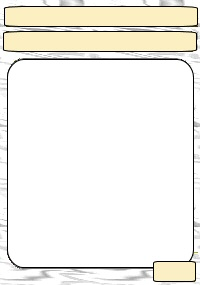
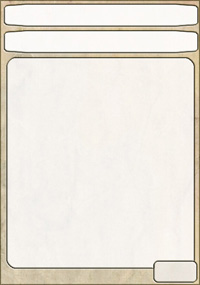
Jeck - Alternate card rendering for land and artifacts, minor graphical tweaking.
git-svn-id: https://wagic.googlecode.com/svn/trunk@798 01922e74-a4c3-11dd-a5cd-697bfd0a0cef

diff --git a/projects/mtg/src/CardGui.cpp b/projects/mtg/src/CardGui.cpp
@@ -111,11 +111,13 @@ JQuad * CardGui::alternateThumbQuad(MTGCard * card){
   JQuad * q;
   switch(card->getColor())
     {
+    case Constants::MTG_COLOR_ARTIFACT  : q = resources.RetrieveQuad("artifact_thumb.jpg");break;
     case Constants::MTG_COLOR_GREEN: q = resources.RetrieveQuad("green_thumb.jpg");break;
     case Constants::MTG_COLOR_BLUE : q = resources.RetrieveQuad("blue_thumb.jpg");break;
     case Constants::MTG_COLOR_RED  : q = resources.RetrieveQuad("red_thumb.jpg");break;
     case Constants::MTG_COLOR_BLACK: q = resources.RetrieveQuad("black_thumb.jpg");break;
     case Constants::MTG_COLOR_WHITE: q = resources.RetrieveQuad("white_thumb.jpg");break;
+    case Constants::MTG_COLOR_LAND  : q = resources.RetrieveQuad("land_thumb.jpg");break;
     default: q = resources.RetrieveQuad("black_thumb.jpg");break;
     }
   if(q && q->mTex)
@@ -129,11 +131,13 @@ void CardGui::alternateRender(MTGCard * card, const Pos& pos){
   JQuad * q;
   switch(card->getColor())
     {
-  case Constants::MTG_COLOR_GREEN: q = resources.RetrieveQuad("green.jpg");break;
+    case Constants::MTG_COLOR_ARTIFACT: q = resources.RetrieveQuad("artifact.jpg");break;
+    case Constants::MTG_COLOR_GREEN: q = resources.RetrieveQuad("green.jpg");break;
     case Constants::MTG_COLOR_BLUE : q = resources.RetrieveQuad("blue.jpg");break;
     case Constants::MTG_COLOR_RED  : q = resources.RetrieveQuad("red.jpg");break;
     case Constants::MTG_COLOR_BLACK: q = resources.RetrieveQuad("black.jpg");break;
     case Constants::MTG_COLOR_WHITE: q = resources.RetrieveQuad("white.jpg");break;
+    case Constants::MTG_COLOR_LAND: q = resources.RetrieveQuad("land.jpg");break;
     default: q = resources.RetrieveQuad("black.jpg");break;
     }
   if(q && q->mTex){
